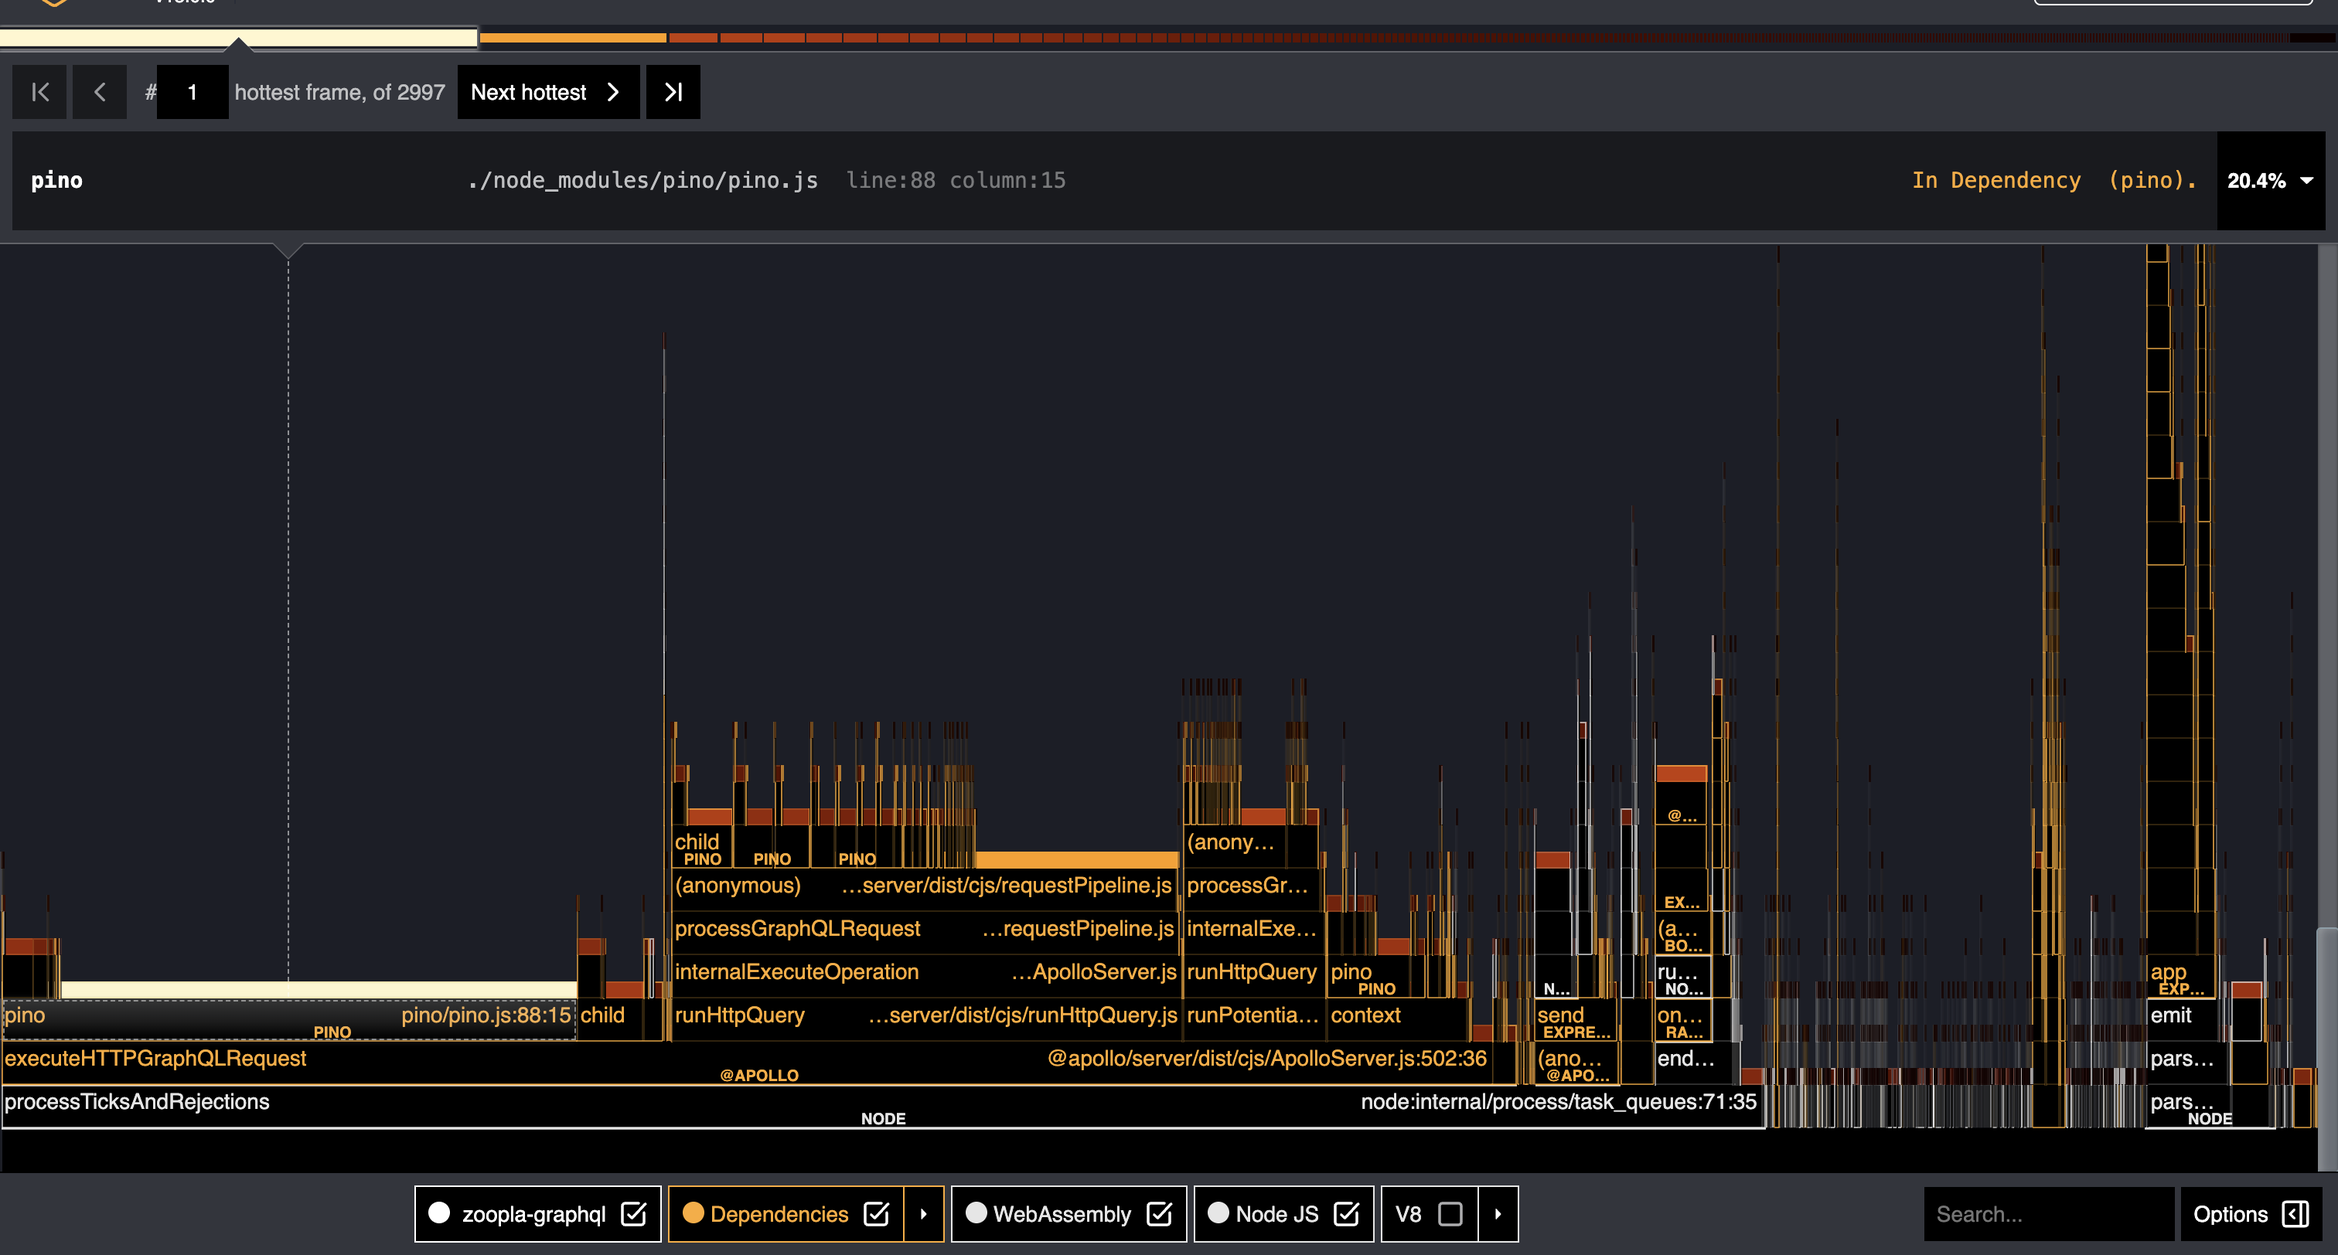
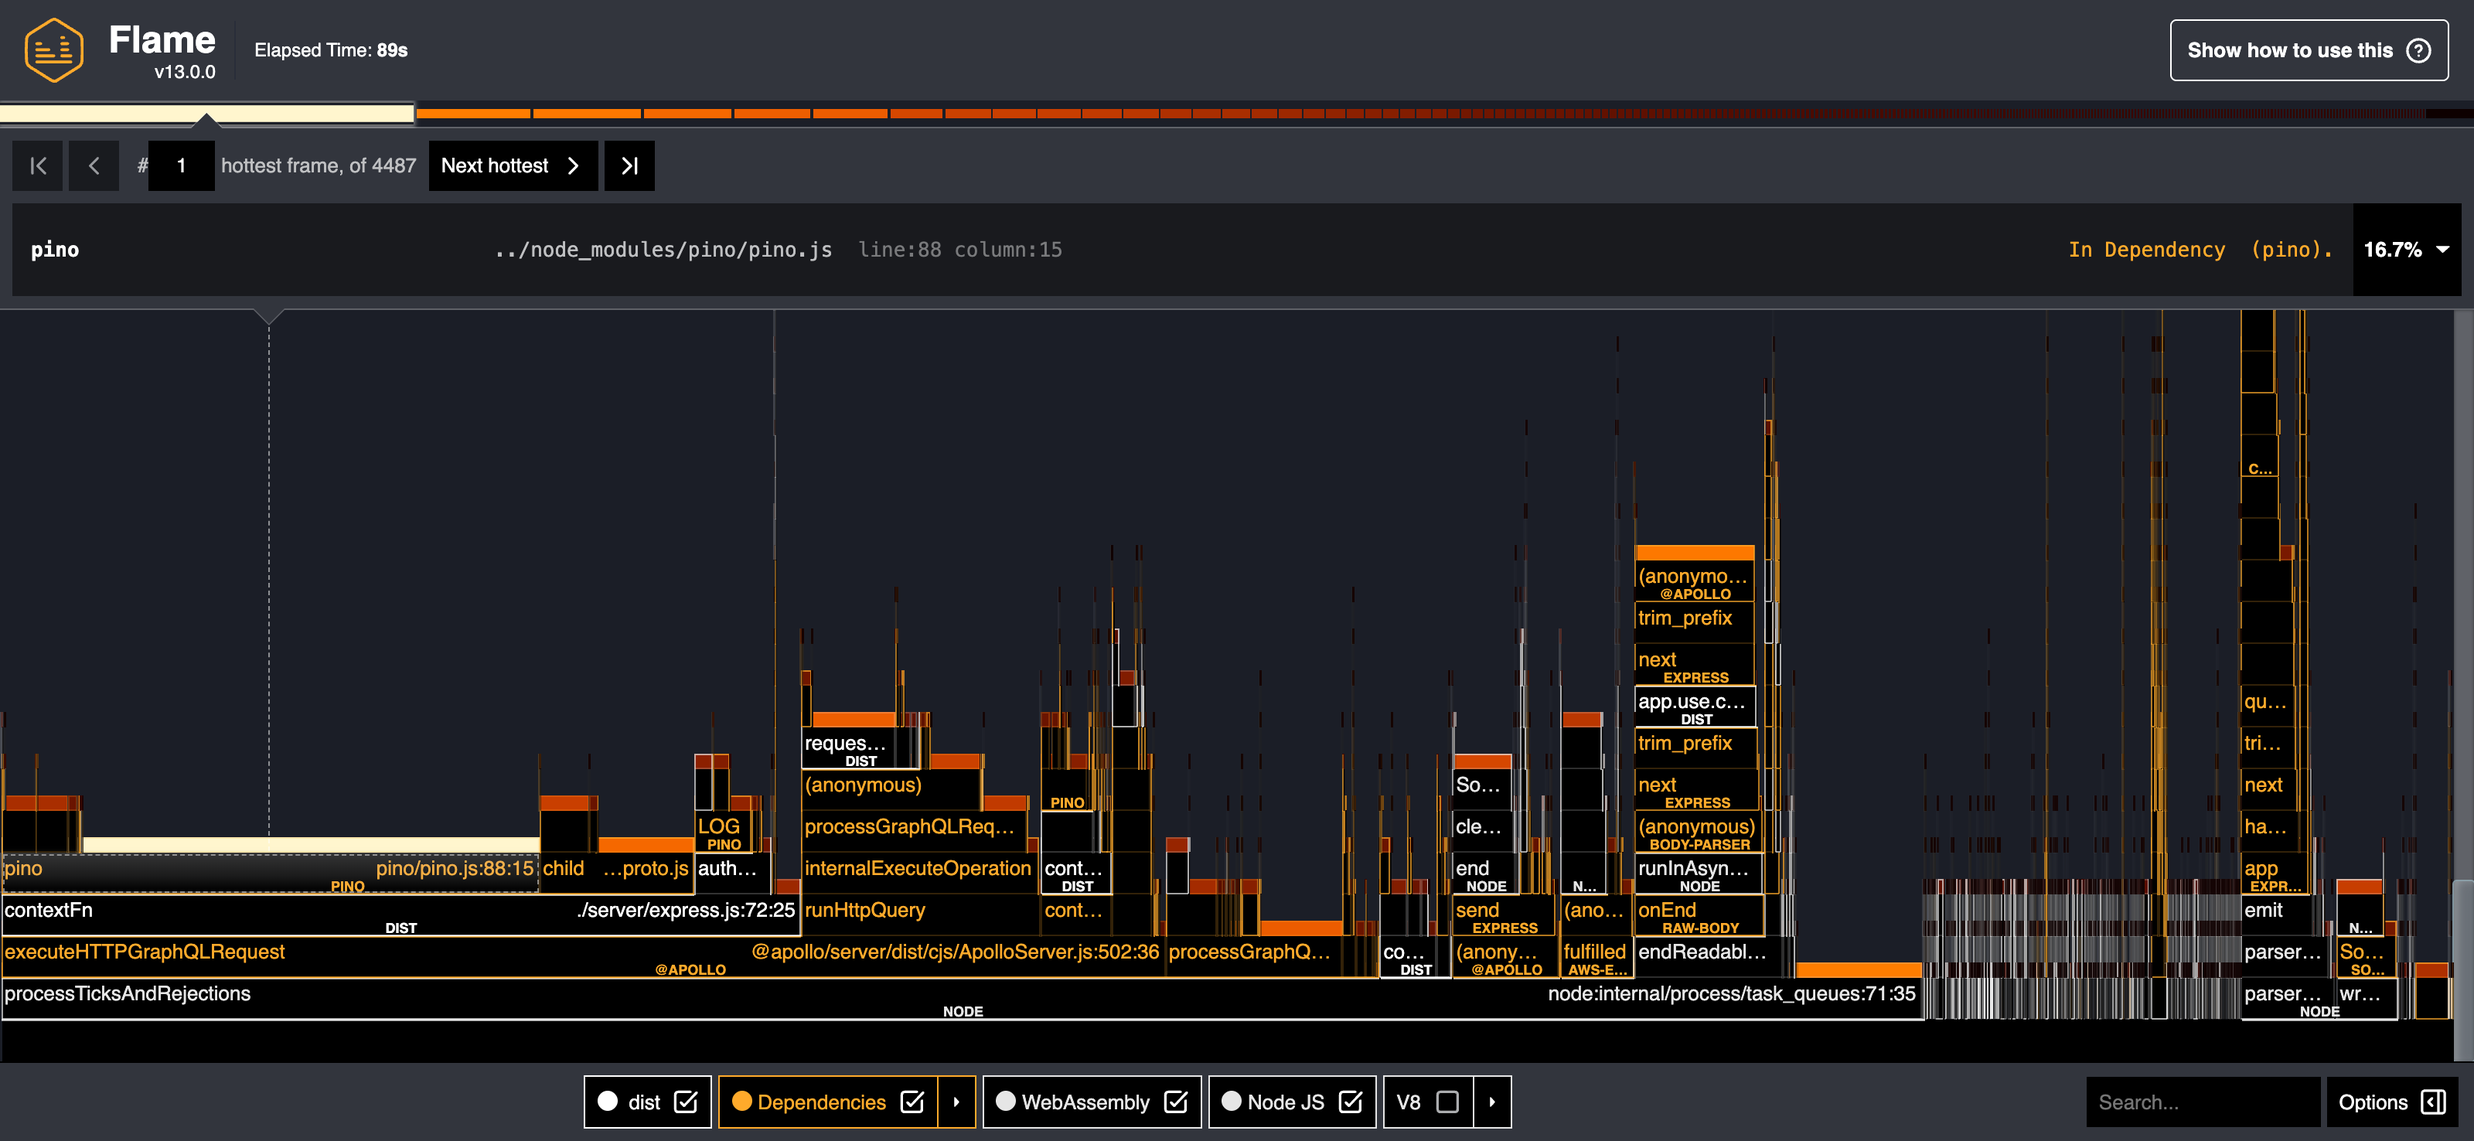
Update clinic flame/doctor slides and fix presentation content
- Replace flame-after screenshot with real run from fix branch (pino 16.7%)
- Split flame before/after into two separate slides
- Move flame-after slide after root cause slide
- Use objectFit fill on all clinic images for full visibility
- Set height 520 on all clinic doctor images
- Fix: remove one-liner claim, remove two-changes label
- Fix: 478 → 100+ re-renders, remove ~ from 20x, update WDYR table
- Fix: whiteSpace nowrap on h2/p in root cause slide
- Fix: remove dataSources/pino callout text blocks from flame slide

Changed region(s): [[0.0, 0.0, 1.0, 0.9973], [0.8704, 0.0, 1.0, 0.0623]]

diff --git a/src/slides/10e-ClinicGQL-Flame.tsx b/src/slides/10e-ClinicGQL-Flame.tsx
@@ -3,50 +3,42 @@ export function ClinicGQL4Slide() {
     <div className="slide">
       <div className="slide-inner">
         <div className="section-label">part 03 · clinic.js · step 2 of 4</div>
-        <h2 className="mb-8">clinic flame - before vs after</h2>
-        <p className="mb-20" style={{ maxWidth: 720 }}>
-          Doctor said "CPU high - run flame". We did. 60% of all CPU samples were in one place - and it had nothing to do with resolvers.
+        <h2 className="mb-8">clinic flame - before</h2>
+        <p className="mb-12" style={{ whiteSpace: 'nowrap' }}>
+          Doctor said "CPU high - run flame". We did. 60% of all CPU samples were in one place - nothing to do with resolvers.
         </p>
-
-        <div className="grid-2" style={{ gap: 20 }}>
-
-          {/* Before */}
-          <div>
-            <div style={{ display: 'flex', alignItems: 'center', gap: 8, marginBottom: 10 }}>
-              <div style={{ padding: '2px 10px', background: 'var(--red)', borderRadius: 12, fontSize: '0.72rem', fontWeight: 700, color: '#fff' }}>BEFORE</div>
-              <span style={{ fontSize: '0.82rem', color: 'var(--muted)' }}>hottest frame: <code style={{ fontFamily: 'var(--mono)' }}>dataSources()</code> · 60% · driven by <code style={{ fontFamily: 'var(--mono)' }}>pino</code> · 37%</span>
-            </div>
-            <img
-              src="/screenshots/graphql-clinic-flame-before.png"
-              alt="clinic flame before - dataSources consuming 60% of CPU"
-              style={{ width: '100%', objectFit: 'contain', borderRadius: 6, border: '2px solid var(--red)', display: 'block' }}
-            />
-            <div style={{ marginTop: 12, padding: '12px 14px', borderLeft: '3px solid var(--red)', background: 'var(--card)', borderRadius: '0 4px 4px 0' }}>
-              <p style={{ fontSize: '0.85rem' }}>
-                <code style={{ fontFamily: 'var(--mono)', fontSize: '0.82rem' }}>dataSources()</code> was 60% of CPU - 70 datasource constructors each calling <code style={{ fontFamily: 'var(--mono)', fontSize: '0.82rem' }}>pino().child()</code>. 140 pino calls per request, before a single resolver ran.
-              </p>
-            </div>
-          </div>
-
-          {/* After */}
-          <div>
-            <div style={{ display: 'flex', alignItems: 'center', gap: 8, marginBottom: 10 }}>
-              <div style={{ padding: '2px 10px', background: 'var(--text)', borderRadius: 12, fontSize: '0.72rem', fontWeight: 700, color: 'var(--bg)' }}>AFTER</div>
-              <span style={{ fontSize: '0.82rem', color: 'var(--muted)' }}><code style={{ fontFamily: 'var(--mono)' }}>dataSources()</code> gone · <code style={{ fontFamily: 'var(--mono)' }}>executeHTTPGraphQLRequest</code> now dominant</span>
-            </div>
-            <img
-              src="/screenshots/graphql-clinic-flame-after.png"
-              alt="clinic flame after - dataSources gone, GraphQL execution now visible"
-              style={{ width: '100%', objectFit: 'contain', borderRadius: 6, border: '2px solid var(--border2)', display: 'block' }}
-            />
-            <div style={{ marginTop: 12, padding: '12px 14px', borderLeft: '3px solid var(--border2)', background: 'var(--card)', borderRadius: '0 4px 4px 0' }}>
-              <p style={{ fontSize: '0.85rem' }}>
-                <code style={{ fontFamily: 'var(--mono)', fontSize: '0.82rem' }}>dataSources()</code> disappeared. <code style={{ fontFamily: 'var(--mono)', fontSize: '0.82rem' }}>executeHTTPGraphQLRequest</code> is now the widest block - actual GraphQL work. The server is doing 7× more requests in the same window.
-              </p>
-            </div>
-          </div>
-
+        <div style={{ display: 'flex', alignItems: 'center', gap: 8, marginBottom: 10 }}>
+          <div style={{ padding: '2px 10px', background: 'var(--red)', borderRadius: 12, fontSize: '0.72rem', fontWeight: 700, color: '#fff' }}>BEFORE</div>
+          <span style={{ fontSize: '0.82rem', color: 'var(--muted)' }}>hottest frame: <code style={{ fontFamily: 'var(--mono)' }}>dataSources()</code> · 60% · driven by <code style={{ fontFamily: 'var(--mono)' }}>pino</code> · 37%</span>
         </div>
+        <img
+          src="/screenshots/graphql-clinic-flame-before.png"
+          alt="clinic flame before - dataSources consuming 60% of CPU"
+          style={{ width: '100%', height: 520, objectFit: 'fill', borderRadius: 6, border: '2px solid var(--red)', display: 'block' }}
+        />
+      </div>
+    </div>
+  );
+}
+
+export function ClinicGQL4AfterSlide() {
+  return (
+    <div className="slide">
+      <div className="slide-inner">
+        <div className="section-label">part 03 · clinic.js · step 2 of 4</div>
+        <h2 className="mb-8">clinic flame - after</h2>
+        <p className="mb-12" style={{ whiteSpace: 'nowrap' }}>
+          Doctor said "CPU high - run flame". We did. 60% of all CPU samples were in one place - nothing to do with resolvers.
+        </p>
+        <div style={{ display: 'flex', alignItems: 'center', gap: 8, marginBottom: 10 }}>
+          <div style={{ padding: '2px 10px', background: 'var(--text)', borderRadius: 12, fontSize: '0.72rem', fontWeight: 700, color: 'var(--bg)' }}>AFTER</div>
+          <span style={{ fontSize: '0.82rem', color: 'var(--muted)' }}><code style={{ fontFamily: 'var(--mono)' }}>dataSources()</code> gone · hottest: <code style={{ fontFamily: 'var(--mono)' }}>pino</code> · 16.7% · actual request logging</span>
+        </div>
+        <img
+          src="/screenshots/graphql-clinic-flame-after.png"
+          alt="clinic flame after - dataSources gone, pino now hottest at 16.7%"
+          style={{ width: '100%', height: 520, objectFit: 'fill', borderRadius: 6, border: '2px solid var(--border2)', display: 'block' }}
+        />
       </div>
     </div>
   );

diff --git a/src/slides/10f-ClinicGQL-Fix.tsx b/src/slides/10f-ClinicGQL-Fix.tsx
@@ -3,9 +3,9 @@ export function ClinicGQL5Slide() {
     <div className="slide">
       <div className="slide-inner">
         <div className="section-label">part 03 · clinic.js · step 3 of 4</div>
-        <h2 className="mb-8">Root cause - 70 new objects on every request</h2>
-        <p className="mb-20" style={{ maxWidth: 720 }}>
-          Once we saw the flame graph, the root cause was obvious. The fix was a one-liner.
+        <h2 className="mb-8" style={{ whiteSpace: 'nowrap' }}>Root cause - 70 new objects on every request</h2>
+        <p className="mb-20" style={{ whiteSpace: 'nowrap' }}>
+          Once we saw the flame graph, the root cause was obvious.
         </p>
 
         <div className="flex-col gap-24">
@@ -39,7 +39,7 @@ export function ClinicGQL5Slide() {
 
             {/* AFTER */}
             <div>
-              <div style={{ fontSize: '0.72rem', fontWeight: 700, textTransform: 'uppercase', letterSpacing: '0.1em', color: 'var(--text)', marginBottom: 10 }}>After - two changes, branch: fix/singleton-datasources-memory-leak</div>
+              <div style={{ fontSize: '0.72rem', fontWeight: 700, textTransform: 'uppercase', letterSpacing: '0.1em', color: 'var(--text)', marginBottom: 10 }}>After - branch: fix/singleton-datasources-memory-leak</div>
               <div style={{ background: '#161b22', borderRadius: 6, padding: '16px 18px', fontFamily: 'var(--mono)', fontSize: '0.8rem', color: '#e6edf3', lineHeight: 1.9 }}>
                 <div style={{ color: '#8b949e' }}>{'// fix 1: 67 singletons at module level (once at startup)'}</div>
                 <div style={{ color: '#7ee787' }}>const sharedSources = dataSources();</div>
@@ -52,10 +52,7 @@ export function ClinicGQL5Slide() {
               </div>
               <div style={{ marginTop: 10, padding: '12px 14px', borderLeft: '3px solid var(--text)', background: 'var(--card)', borderRadius: '0 4px 4px 0' }}>
                 <p style={{ fontSize: '0.85rem', marginBottom: 6 }}>
-                  3 datasources stay per-request: <code style={{ fontFamily: 'var(--mono)', fontSize: '0.82rem' }}>BaseListing</code>, <code style={{ fontFamily: 'var(--mono)', fontSize: '0.82rem' }}>PropertyIdMappingAPI</code>, <code style={{ fontFamily: 'var(--mono)', fontSize: '0.82rem' }}>UserProfileV2API</code> - each creates a DataLoader in its constructor. DataLoader caches per instance, wrong as a singleton.
-                </p>
-                <p style={{ fontSize: '0.85rem' }}>
-                  Singletons get <code style={{ fontFamily: 'var(--mono)', fontSize: '0.82rem' }}>requestId</code>/<code style={{ fontFamily: 'var(--mono)', fontSize: '0.82rem' }}>traceId</code> via <code style={{ fontFamily: 'var(--mono)', fontSize: '0.82rem' }}>AsyncLocalStorage</code> - no race condition, no method signature changes.
+                  <strong>3 stay per-request:</strong> <code style={{ fontFamily: 'var(--mono)', fontSize: '0.82rem' }}>BaseListing</code>, <code style={{ fontFamily: 'var(--mono)', fontSize: '0.82rem' }}>PropertyIdMappingAPI</code>, <code style={{ fontFamily: 'var(--mono)', fontSize: '0.82rem' }}>UserProfileV2API</code> - each creates a <code style={{ fontFamily: 'var(--mono)', fontSize: '0.82rem' }}>DataLoader</code> in its constructor. DataLoader caches per instance - wrong as a singleton.
                 </p>
               </div>
             </div>

diff --git a/src/slides/03-ReRenders-Problem.tsx b/src/slides/03-ReRenders-Problem.tsx
@@ -5,14 +5,14 @@ export function ReRendersProblemSlide() {
         <div className="section-label">part 01 · zoopla-web · real finding</div>
         <h2 className="mb-20">UserProvider - re-rendering the whole app</h2>
 
-        <div className="grid-2" style={{ gap: 28, alignItems: 'start' }}>
+        <div style={{ display: 'grid', gridTemplateColumns: '1fr 1fr', gap: 28, alignItems: 'start', overflow: 'hidden' }}>
 
           {/* Left - real code + fix */}
           <div className="flex-col gap-16">
 
             <div>
               <div style={{ fontSize: '0.78rem', fontWeight: 700, textTransform: 'uppercase', letterSpacing: '0.12em', color: 'var(--dim)', marginBottom: 10 }}>
-                Real code - <code style={{ fontFamily: 'var(--mono)', fontSize: '0.82rem' }}>libs/user/src/lib/userProvider.tsx</code> · line 295
+                Real code - <code style={{ fontFamily: 'var(--mono)', fontSize: '0.82rem' }}>libs/user/src/lib/userProvider.tsx</code>
               </div>
               <div style={{ background: '#161b22', borderRadius: 6, padding: '16px 18px', fontFamily: 'var(--mono)', fontSize: '0.92rem', lineHeight: 2, color: '#e6edf3' }}>
                 <div style={{ color: '#6e7681' }}>{'// new object on every render'}</div>
@@ -47,14 +47,14 @@ export function ReRendersProblemSlide() {
             <div style={{ padding: '16px 18px', background: 'var(--card)', borderRadius: 8, borderLeft: '3px solid var(--red)' }}>
               <div style={{ marginBottom: 14 }}>
                 <span style={{ fontWeight: 700, fontSize: '1.1rem' }}>What WDYR logged - </span>
-                <span style={{ fontSize: '1.6rem', fontWeight: 700, color: 'var(--red)', letterSpacing: '-0.03em' }}>478</span>
+                <span style={{ fontSize: '1.6rem', fontWeight: 700, color: 'var(--red)', letterSpacing: '-0.03em' }}>100+</span>
                 <span style={{ fontSize: '0.82rem', color: 'var(--muted)', marginLeft: 8 }}>re-renders on <code style={{ fontFamily: 'var(--mono)', fontSize: '0.8rem' }}>/to-rent/property/london/</code> · impacts TBT + INP</span>
               </div>
-              <div style={{ display: 'grid', gridTemplateColumns: '160px 44px 1fr', gap: '8px 12px', alignItems: 'baseline' }}>
+              <div style={{ display: 'grid', gridTemplateColumns: '140px 40px 1fr', gap: '8px 10px', alignItems: 'baseline' }}>
                 {[
                   { comp: 'UserProvider', count: '6×', why: 'value object recreated on every dispatch' },
-                  { comp: 'Header + Menu', count: '12×', why: 'cascade - wraps _app.tsx, every useUser() consumer follows' },
-                  { comp: 'ListingSlim', count: '~20×', why: 'all 20+ cards re-render together' },
+                  { comp: 'Header + Menu', count: '12×', why: 'cascade from UserProvider' },
+                  { comp: 'ListingSlim', count: '20×', why: 'all 20+ cards re-render together' },
                   { comp: 'SearchResults', count: '4×', why: 'consuming SearchProvider context' },
                 ].map(r => (
                   <>

diff --git a/src/App.tsx b/src/App.tsx
@@ -15,7 +15,7 @@ import { XRaySlide } from './slides/06c-XRay';
 import { GraphQLStorySlide } from './slides/07-GraphQL-Story';
 import { OTelSlide } from './slides/08b-OTel';
 import { ClinicGQL2Slide } from './slides/10c-ClinicGQL-Doctor';
-import { ClinicGQL4Slide } from './slides/10e-ClinicGQL-Flame';
+import { ClinicGQL4Slide, ClinicGQL4AfterSlide } from './slides/10e-ClinicGQL-Flame';
 import { ClinicGQL5Slide } from './slides/10f-ClinicGQL-Fix';
 import { ClinicGQL6Slide } from './slides/10g-ClinicGQL-After';
 import { BundleAnalysisSlide } from './slides/12b-BundleAnalysis';
@@ -38,8 +38,9 @@ const slides = [
   { component: XRaySlide, label: 'X-Ray - what you see', section: false },
   { component: GraphQLStorySlide, label: 'GraphQL Story', section: false },
   { component: ClinicGQL2Slide, label: 'clinic doctor - before', section: false },
-  { component: ClinicGQL4Slide, label: 'clinic flame - before vs after', section: false },
+  { component: ClinicGQL4Slide, label: 'clinic flame - before', section: false },
   { component: ClinicGQL5Slide, label: 'Root cause + fix', section: false },
+  { component: ClinicGQL4AfterSlide, label: 'clinic flame - after', section: false },
   { component: ClinicGQL6Slide, label: 'clinic doctor - after', section: false },
   { component: BundleAnalysisSlide, label: 'Bundle Analysis', section: false },
   { component: QASlide, label: 'Q&A', section: false },

diff --git a/src/slides/10g-ClinicGQL-After.tsx b/src/slides/10g-ClinicGQL-After.tsx
@@ -4,7 +4,7 @@ export function ClinicGQL6Slide() {
       <div className="slide-inner">
         <div className="section-label">part 03 · clinic.js · step 4 of 4</div>
         <h2 className="mb-8">clinic doctor - after the fix</h2>
-        <p className="mb-20" style={{ maxWidth: 700 }}>
+        <p className="mb-20" style={{ maxWidth: 700, whiteSpace: 'nowrap' }}>
           Same command, same load. The difference is immediate and obvious.
         </p>
 
@@ -14,7 +14,7 @@ export function ClinicGQL6Slide() {
           <img
             src="/screenshots/graphql-clinic-doctor-after.png"
             alt="clinic doctor after fix - flat memory, no event loop spikes, CPU high but stable"
-            style={{ width: '100%', objectFit: 'contain', borderRadius: 6, border: '2px solid var(--border2)', display: 'block' }}
+            style={{ width: '100%', height: 520, objectFit: 'fill', borderRadius: 6, border: '2px solid var(--border2)', display: 'block' }}
           />
 
           {/* What changed */}

diff --git a/src/slides/10c-ClinicGQL-Doctor.tsx b/src/slides/10c-ClinicGQL-Doctor.tsx
@@ -17,7 +17,7 @@ export function ClinicGQL2Slide() {
             <img
               src="/screenshots/graphql-clinic-doctor-before.png"
               alt="clinic doctor before fix - sawtooth memory, event loop spikes, CPU at 100%"
-              style={{ width: '100%', objectFit: 'contain', borderRadius: 6, border: '2px solid var(--red)', display: 'block' }}
+              style={{ width: '100%', height: 520, objectFit: 'fill', borderRadius: 6, border: '2px solid var(--red)', display: 'block' }}
             />
           </div>
 

diff --git a/src/slides/14-QA.tsx b/src/slides/14-QA.tsx
@@ -36,7 +36,7 @@ export function QASlide() {
           </div>
 
           {/* Right - resources */}
-          <div className="card" style={{ padding: '12px 16px' }}>
+          <div className="card" style={{ padding: '14px 18px', marginTop: '60px' }}>
             <div className="card-label">resources</div>
             <div className="flex-col gap-10">
               {links.map(l => (
